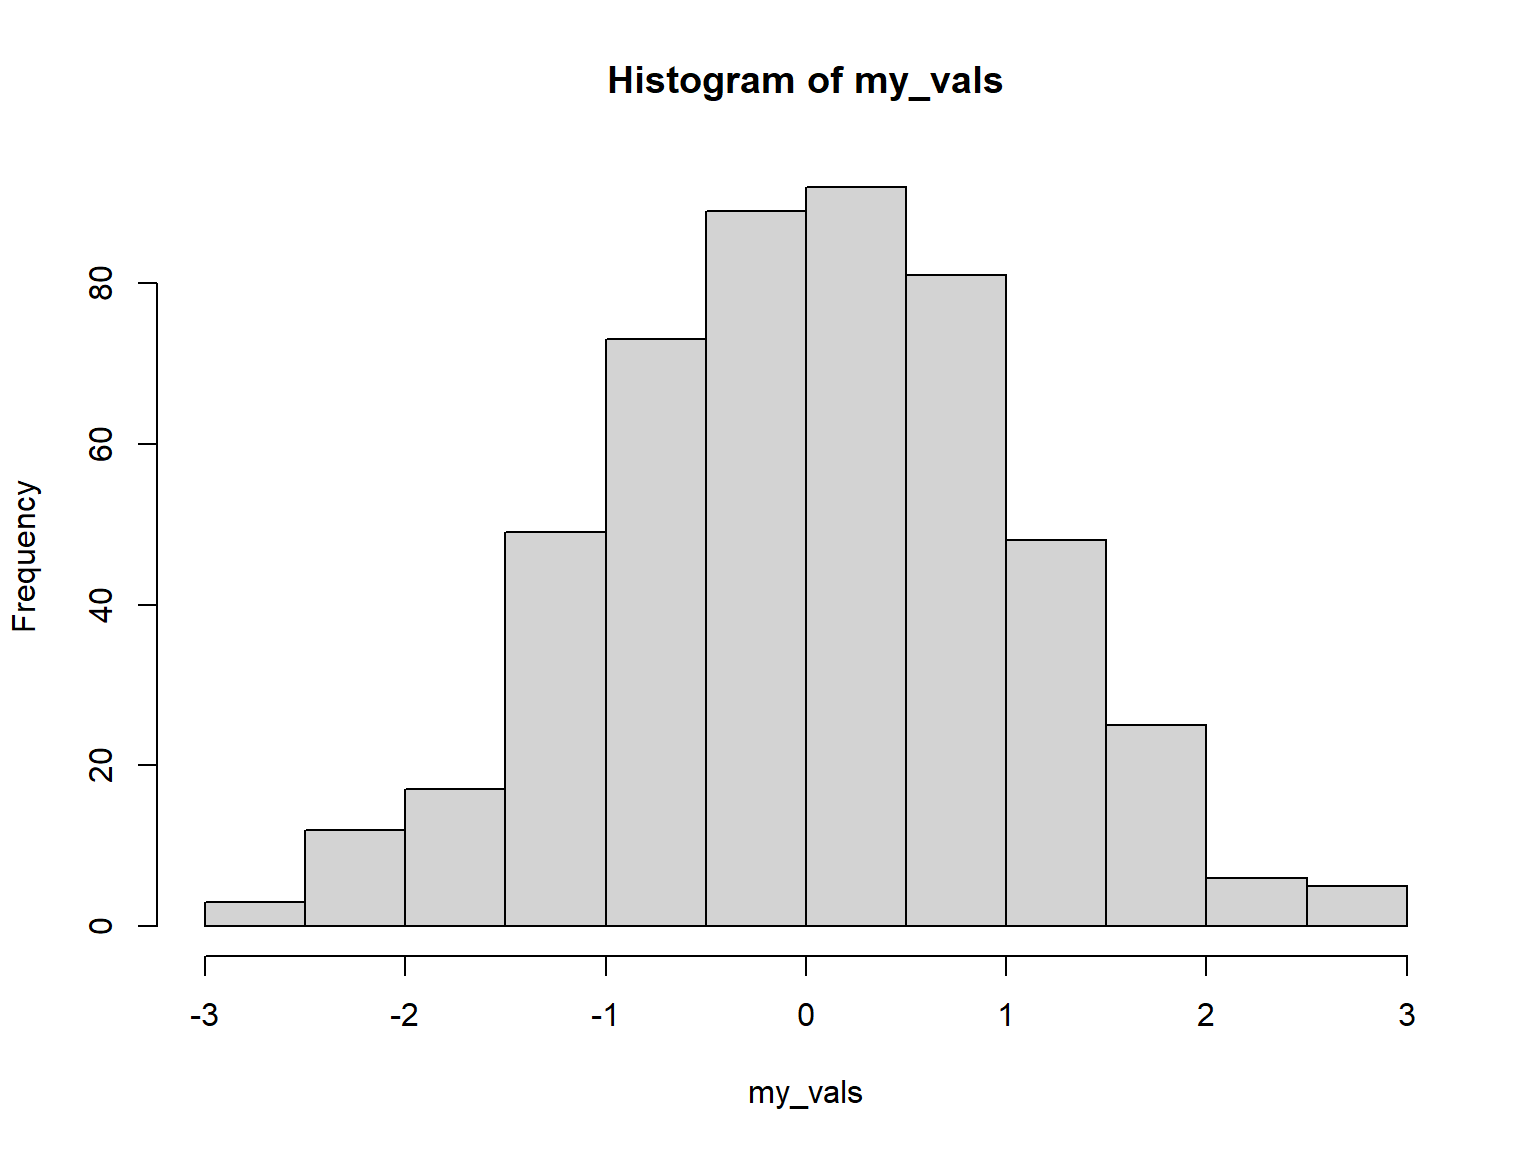
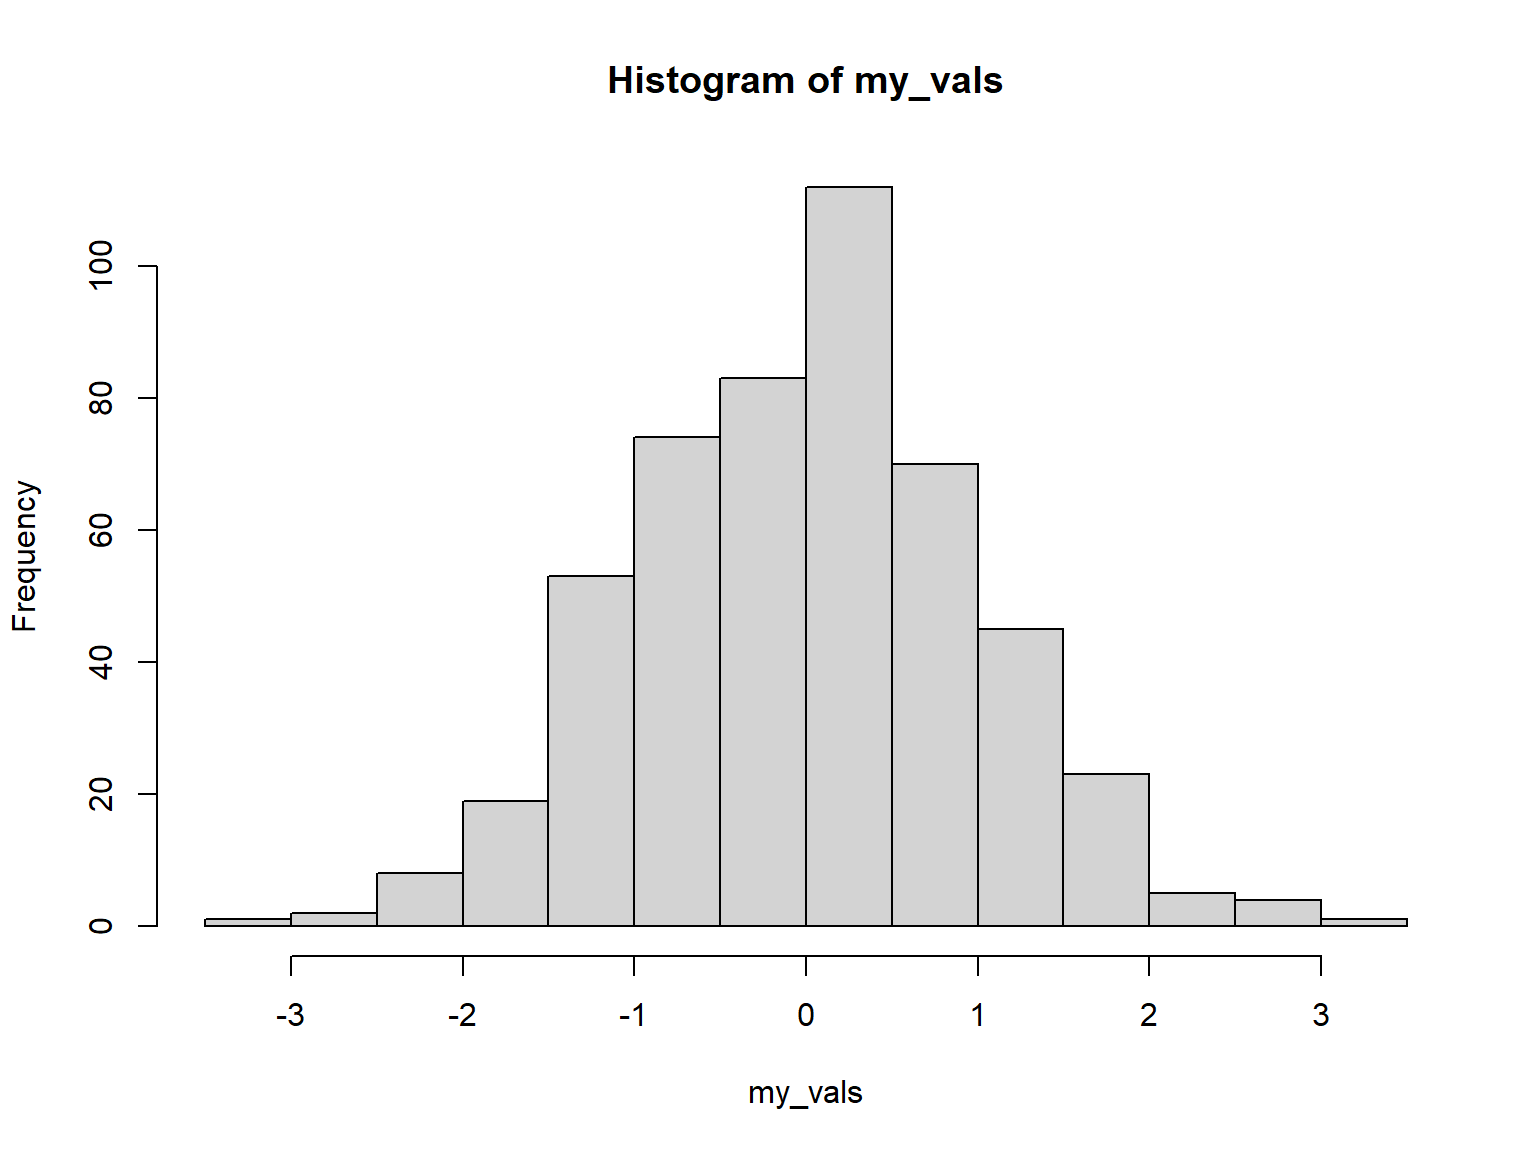
Update slidy2022.css

diff --git a/slides/slides_pt1.html b/slides/slides_pt1.html
@@ -6,7 +6,7 @@
   <meta http-equiv="Content-Type" content="text/html; charset=utf-8" />
   <meta http-equiv="Content-Style-Type" content="text/css" />
   <meta name="generator" content="pandoc" />
-  <meta name="author" content=" October 11, 2022" />
+  <meta name="author" content=" Andy Lyons October 11, 2022" />
   <meta name="copyright" content="<a href='https://ucanr-igis.github.io/IntroR_Oct22/' style='color:#444;'>https://ucanr-igis.github.io/IntroR_Oct22/</a>"/>
   <title>Intro R Getting Started</title>
   <style type="text/css">
@@ -173,8 +173,8 @@ code span.wa { color: #60a0b0; font-weight: bold; font-style: italic; } /* Warni
   <h1 class="title">Intro to R Part 1:</h1>
   <h1 class="subtitle">Getting Started</h1>
   <p class="author">
-<img src='images/r_rstudio_400x120.png' style='width:400px; height:120px; margin-top:0.5em; margin-bottom:2em;'/><br/>October
-11, 2022
+<img src='images/r_rstudio_400x120.png' style='width:400px; height:120px; margin-top:0.5em; margin-bottom:1em;'/><br/>Andy
+Lyons<br/>October 11, 2022
   </p>
   <p class="date"><a href='https://ucanr-igis.github.io/IntroR_Oct22/' style='color:darkgreen; font-size:105%; font-family:monospace;'>https://ucanr-igis.github.io/IntroR_Oct22/
 </a><br/><img src='images/igis-logo_550x58x256.png' style='margin-top:1.5em;'/></p>
@@ -209,8 +209,8 @@ w3c_slidy.mouse_click_enabled = false;
[1 lines of base64/hex data omitted]
 <p class='qtext'>Location</p>
 <div style='margin:0 1em;'>
-<div id="htmlwidget-48e555a387636646c889" style="width:100%;height:400px;" class="leaflet html-widget"></div>
-<script type="application/json" data-for="htmlwidget-48e555a387636646c889">{"x":{"options":{"crs":{"crsClass":"L.CRS.EPSG3857","code":null,"proj4def":null,"projectedBounds":null,"options":{}}},"calls":[{"method":"addTiles","args":["https://{s}.tile.openstreetmap.org/{z}/{x}/{y}.png",null,null,{"minZoom":0,"maxZoom":18,"tileSize":256,"subdomains":"abc","errorTileUrl":"","tms":false,"noWrap":false,"zoomOffset":0,"zoomReverse":false,"opacity":1,"zIndex":1,"detectRetina":false,"attribution":"&copy; <a href=\"https://openstreetmap.org\">OpenStreetMap<\/a> contributors, <a href=\"https://creativecommons.org/licenses/by-sa/2.0/\">CC-BY-SA<\/a>"}]},{"method":"addCircleMarkers","args":[[33.6845673,35.8577443,35.8577443,22.5645175,-15.7666707,37.8715226,37.8715226,37.8715226,37.8715226,37.8043514,33.8491816,36.2077288,37.8715226,-27.4704528,37.8715226,34.4208305,37.8715226,38.5449065,20.8074834,38.5449065,33.9806005,38.5449065,41.8781136,38.2975381,36.6116174,38.5449065,33.9806005,38.5804609,38.5449065,37.7749295,38.5449065,38.5449065,34.134728,40.7309778,38.5449065,34.2804923,37.8043514,37.0849464,37.33874,38.8965654,38.5449065,38.5449065,37.8043514,37.33874,38.5449065,38.5449065,38.5449065,42.4439614,37.8043514,37.8043514,38.6785157,33.9806005,33.9806005,42.4439614,38.5449065,36.7377981,33.6845673,42.4439614,35.3732921,38.5449065,37.6392595,36.7377981,38.5449065,38.5449065,33.9806005,38.1960298,38.5449065,38.5449065,38.5449065,38.5449065,33.9806005,33.9806005,34.0522342,36.6116174,38.5449065,33.9806005,40.8020712,38.6785157,38.5449065,36.7377981,38.6785157,33.9806005,42.4439614,33.9806005,38.5449065,39.1501709,36.6116174,37.8043514,38.5449065],[-117.8265049,-0.3096606,-0.3096606,72.928871,35.0167866,-122.273042,-122.273042,-122.273042,-122.273042,-122.2711639,-118.3884078,-119.3473379,-122.273042,153.0260341,-122.273042,-119.6981901,-122.273042,-121.7405167,-105.2480864,-121.7405167,-117.3754942,-121.7405167,-87.6297982,-122.286865,-119.5270734,-121.7405167,-117.3754942,-121.530234,-121.7405167,-122.4194155,-121.7405167,-121.7405167,-116.3130661,-122.9419708,-121.7405167,-119.2945199,-122.2711639,-121.6102216,-121.8852525,-121.0768901,-121.7405167,-121.7405167,-122.2711639,-121.8852525,-121.7405167,-121.7405167,-121.7405167,-76.5018807,-122.2711639,-122.2711639,-121.7732971,-117.3754942,-117.3754942,-76.5018807,-121.7405167,-119.7871247,-117.8265049,-76.5018807,-119.0187125,-121.7405167,-120.9970014,-119.7871247,-121.7405167,-121.7405167,-117.3754942,-120.6804872,-121.7405167,-121.7405167,-121.7405167,-121.7405167,-117.3754942,-117.3754942,-118.2436849,-119.5270734,-121.7405167,-117.3754942,-124.1636729,-121.7732971,-121.7405167,-119.7871247,-121.7732971,-117.3754942,-76.5018807,-117.3754942,-121.7405167,-123.2077831,-119.5270734,-122.2711639,-121.7405167],10,null,null,{"interactive":true,"className":"","stroke":false,"color":"#03F","weight":5,"opacity":0.5,"fill":true,"fillColor":"#03F","fillOpacity":0.5},1,null,null,null,null,{"interactive":false,"permanent":false,"direction":"auto","opacity":1,"offset":[0,0],"textsize":"10px","textOnly":false,"className":"","sticky":true},null]}],"limits":{"lat":[-27.4704528,42.4439614],"lng":[-124.1636729,153.0260341]}},"evals":[],"jsHooks":[]}</script>
+<div id="htmlwidget-7fc40dea0d0960778a49" style="width:100%;height:400px;" class="leaflet html-widget"></div>
+<script type="application/json" data-for="htmlwidget-7fc40dea0d0960778a49">{"x":{"options":{"crs":{"crsClass":"L.CRS.EPSG3857","code":null,"proj4def":null,"projectedBounds":null,"options":{}}},"calls":[{"method":"addTiles","args":["https://{s}.tile.openstreetmap.org/{z}/{x}/{y}.png",null,null,{"minZoom":0,"maxZoom":18,"tileSize":256,"subdomains":"abc","errorTileUrl":"","tms":false,"noWrap":false,"zoomOffset":0,"zoomReverse":false,"opacity":1,"zIndex":1,"detectRetina":false,"attribution":"&copy; <a href=\"https://openstreetmap.org\">OpenStreetMap<\/a> contributors, <a href=\"https://creativecommons.org/licenses/by-sa/2.0/\">CC-BY-SA<\/a>"}]},{"method":"addCircleMarkers","args":[[33.6845673,35.8577443,35.8577443,22.5645175,-15.7666707,37.8715226,37.8715226,37.8715226,37.8715226,37.8043514,33.8491816,36.2077288,37.8715226,-27.4704528,37.8715226,34.4208305,37.8715226,38.5449065,20.8074834,38.5449065,33.9806005,38.5449065,41.8781136,38.2975381,36.6116174,38.5449065,33.9806005,38.5804609,38.5449065,37.7749295,38.5449065,38.5449065,34.134728,40.7309778,38.5449065,34.2804923,37.8043514,37.0849464,37.33874,38.8965654,38.5449065,38.5449065,37.8043514,37.33874,38.5449065,38.5449065,38.5449065,42.4439614,37.8043514,37.8043514,38.6785157,33.9806005,33.9806005,42.4439614,38.5449065,36.7377981,33.6845673,42.4439614,35.3732921,38.5449065,37.6392595,36.7377981,38.5449065,38.5449065,33.9806005,38.1960298,38.5449065,38.5449065,38.5449065,38.5449065,33.9806005,33.9806005,34.0522342,36.6116174,38.5449065,33.9806005,40.8020712,38.6785157,38.5449065,36.7377981,38.6785157,33.9806005,42.4439614,33.9806005,38.5449065,39.1501709,36.6116174,37.8043514,38.5449065],[-117.8265049,-0.3096606,-0.3096606,72.928871,35.0167866,-122.273042,-122.273042,-122.273042,-122.273042,-122.2711639,-118.3884078,-119.3473379,-122.273042,153.0260341,-122.273042,-119.6981901,-122.273042,-121.7405167,-105.2480864,-121.7405167,-117.3754942,-121.7405167,-87.6297982,-122.286865,-119.5270734,-121.7405167,-117.3754942,-121.530234,-121.7405167,-122.4194155,-121.7405167,-121.7405167,-116.3130661,-122.9419708,-121.7405167,-119.2945199,-122.2711639,-121.6102216,-121.8852525,-121.0768901,-121.7405167,-121.7405167,-122.2711639,-121.8852525,-121.7405167,-121.7405167,-121.7405167,-76.5018807,-122.2711639,-122.2711639,-121.7732971,-117.3754942,-117.3754942,-76.5018807,-121.7405167,-119.7871247,-117.8265049,-76.5018807,-119.0187125,-121.7405167,-120.9970014,-119.7871247,-121.7405167,-121.7405167,-117.3754942,-120.6804872,-121.7405167,-121.7405167,-121.7405167,-121.7405167,-117.3754942,-117.3754942,-118.2436849,-119.5270734,-121.7405167,-117.3754942,-124.1636729,-121.7732971,-121.7405167,-119.7871247,-121.7732971,-117.3754942,-76.5018807,-117.3754942,-121.7405167,-123.2077831,-119.5270734,-122.2711639,-121.7405167],10,null,null,{"interactive":true,"className":"","stroke":false,"color":"#03F","weight":5,"opacity":0.5,"fill":true,"fillColor":"#03F","fillOpacity":0.5},1,null,null,null,null,{"interactive":false,"permanent":false,"direction":"auto","opacity":1,"offset":[0,0],"textsize":"10px","textOnly":false,"className":"","sticky":true},null]}],"limits":{"lat":[-27.4704528,42.4439614],"lng":[-124.1636729,153.0260341]}},"evals":[],"jsHooks":[]}</script>
 </div>
 </div>
 </div>
@@ -602,17 +602,17 @@ style="margin-left:2em;" /></p>
 <p>Random number functions:</p>
 <div class="indented2 indented2r">
 <div class="sourceCode" id="cb17"><pre class="sourceCode r"><code class="sourceCode r"><span id="cb17-1"><a href="#cb17-1" aria-hidden="true" tabindex="-1"></a><span class="fu">runif</span>(<span class="dv">20</span>)</span></code></pre></div>
-<pre><code>##  [1] 0.77361887 0.99344788 0.78542845 0.01849517 0.85194183 0.77645989
-##  [7] 0.10767889 0.89154757 0.68751524 0.36971976 0.52815739 0.44368733
-## [13] 0.67018789 0.33448925 0.49558846 0.12440902 0.64071565 0.58420770
-## [19] 0.14699734 0.53381108</code></pre>
+<pre><code>##  [1] 0.18482891 0.55225916 0.71526879 0.21462238 0.13909333 0.45247129
+##  [7] 0.64249572 0.93200395 0.97865094 0.59414003 0.04923433 0.96747771
+## [13] 0.82038187 0.82646415 0.05299592 0.47939691 0.42103602 0.57526074
+## [19] 0.52193619 0.09365101</code></pre>
 <div class="sourceCode" id="cb19"><pre class="sourceCode r"><code class="sourceCode r"><span id="cb19-1"><a href="#cb19-1" aria-hidden="true" tabindex="-1"></a><span class="fu">rnorm</span>(<span class="dv">20</span>)</span></code></pre></div>
-<pre><code>##  [1]  1.53854218 -0.47678874  2.03520678 -2.04216603  0.55398571  1.14063442
-##  [7] -0.85606976  0.37502999 -1.92493548 -0.30940187  0.19286370  1.15947052
-## [13]  0.62324137 -0.07384462  0.48379816  0.21791656  0.21622056 -0.22412263
-## [19] -1.44952705 -0.29041608</code></pre>
+<pre><code>##  [1]  0.40772806  0.42322883 -0.44277528 -0.04002681 -0.72179119 -0.68023389
+##  [7] -0.78777743 -1.41022563  1.18357875  0.38919696  2.20414027  0.32948335
+## [13] -0.70118404 -1.55885111 -0.65531916 -0.59604136 -0.13143566 -1.31204842
+## [19] -0.63525483  0.76753102</code></pre>
 <div class="sourceCode" id="cb21"><pre class="sourceCode r"><code class="sourceCode r"><span id="cb21-1"><a href="#cb21-1" aria-hidden="true" tabindex="-1"></a><span class="fu">sample</span>(month.abb, <span class="dv">3</span>)</span></code></pre></div>
-<pre><code>## [1] &quot;Feb&quot; &quot;Dec&quot; &quot;Aug&quot;</code></pre>
+<pre><code>## [1] &quot;Jul&quot; &quot;Apr&quot; &quot;Oct&quot;</code></pre>
 </div>
 </div>
 <div id="how-vectors-behave" class="slide section level1">
@@ -658,21 +658,21 @@ style="margin-left:2em;" /></p>
 <div class="indented2 indented2r">
 <div class="sourceCode" id="cb35"><pre class="sourceCode r"><code class="sourceCode r"><span id="cb35-1"><a href="#cb35-1" aria-hidden="true" tabindex="-1"></a>x <span class="ot">=</span> <span class="fu">runif</span>(<span class="dv">20</span>)</span>
 <span id="cb35-2"><a href="#cb35-2" aria-hidden="true" tabindex="-1"></a>x</span></code></pre></div>
-<pre><code>##  [1] 0.03827009 0.65527338 0.61036397 0.88158959 0.90166102 0.48318320
-##  [7] 0.54991789 0.73121592 0.95278564 0.62374381 0.71264049 0.93813560
-## [13] 0.34337506 0.96122124 0.97577629 0.94963641 0.56996159 0.52466508
-## [19] 0.15190171 0.91626105</code></pre>
+<pre><code>##  [1] 0.92825123 0.25865012 0.63808831 0.01155916 0.56369928 0.28754014
+##  [7] 0.16278738 0.86374855 0.09121325 0.64696112 0.43537890 0.48155958
+## [13] 0.10240161 0.95638333 0.78196974 0.92077080 0.92876023 0.40745174
+## [19] 0.38037274 0.15251324</code></pre>
 </div>
 <p><br />
 </p>
 <p>Most descriptive stats functions are aggregate:</p>
 <div class="indented2 indented2r">
 <div class="sourceCode" id="cb37"><pre class="sourceCode r"><code class="sourceCode r"><span id="cb37-1"><a href="#cb37-1" aria-hidden="true" tabindex="-1"></a><span class="fu">mean</span>(x)</span></code></pre></div>
-<pre><code>## [1] 0.673579</code></pre>
+<pre><code>## [1] 0.500003</code></pre>
 <div class="sourceCode" id="cb39"><pre class="sourceCode r"><code class="sourceCode r"><span id="cb39-1"><a href="#cb39-1" aria-hidden="true" tabindex="-1"></a><span class="fu">median</span>(x)</span></code></pre></div>
-<pre><code>## [1] 0.6839569</code></pre>
+<pre><code>## [1] 0.4584692</code></pre>
 <div class="sourceCode" id="cb41"><pre class="sourceCode r"><code class="sourceCode r"><span id="cb41-1"><a href="#cb41-1" aria-hidden="true" tabindex="-1"></a><span class="fu">sd</span>(x)</span></code></pre></div>
-<pre><code>## [1] 0.2746592</code></pre>
+<pre><code>## [1] 0.3193841</code></pre>
 </div>
 <p><br />
 </p>

diff --git a/slides/slides_pt2.html b/slides/slides_pt2.html
@@ -6,7 +6,7 @@
   <meta http-equiv="Content-Type" content="text/html; charset=utf-8" />
   <meta http-equiv="Content-Style-Type" content="text/css" />
   <meta name="generator" content="pandoc" />
-  <meta name="author" content=" October 12, 2022" />
+  <meta name="author" content=" Andy Lyons October 12, 2022" />
   <meta name="copyright" content="<a href='https://ucanr-igis.github.io/IntroR_Oct22/' style='color:#444;'>https://ucanr-igis.github.io/IntroR_Oct22/</a>"/>
   <title>Intro R Functions Import Data</title>
   <style type="text/css">
@@ -158,8 +158,8 @@ code span.wa { color: #60a0b0; font-weight: bold; font-style: italic; } /* Warni
   <h1 class="subtitle">Packages, Functions, Data Frames,<br/> and
 Importing Data</h1>
   <p class="author">
-<img src='images/r_rstudio_400x120.png' style='width:400px; height:120px; margin-top:0.5em; margin-bottom:2em;'/><br/>October
-12, 2022
+<img src='images/r_rstudio_400x120.png' style='width:400px; height:120px; margin-top:0.5em; margin-bottom:1em;'/><br/>Andy
+Lyons<br/>October 12, 2022
   </p>
   <p class="date"><a href='https://ucanr-igis.github.io/IntroR_Oct22/' style='color:darkgreen; font-size:105%; font-family:monospace;'>https://ucanr-igis.github.io/IntroR_Oct22/
 </a><br/><img src='images/igis-logo_550x58x256.png' style='margin-top:1.5em;'/></p>
@@ -506,7 +506,7 @@ them <em>starting with the 2nd argument</em> (or use named
 arguments):</p>
 <div class="indented2 indented2r">
 <div class="sourceCode" id="cb8"><pre class="sourceCode r"><code class="sourceCode r"><span id="cb8-1"><a href="#cb8-1" aria-hidden="true" tabindex="-1"></a><span class="fu">runif</span>(<span class="dv">5</span>) <span class="sc">%&gt;%</span> <span class="fu">round</span>(<span class="dv">2</span>)</span></code></pre></div>
-<pre><code>## [1] 0.94 0.86 0.65 0.91 0.55</code></pre>
+<pre><code>## [1] 0.12 0.68 0.35 0.09 0.95</code></pre>
 </div>
 <p><br />
 </p>

diff --git a/slides/slides_pt3.html b/slides/slides_pt3.html
@@ -6,7 +6,7 @@
   <meta http-equiv="Content-Type" content="text/html; charset=utf-8" />
   <meta http-equiv="Content-Style-Type" content="text/css" />
   <meta name="generator" content="pandoc" />
-  <meta name="author" content=" October 14, 2022" />
+  <meta name="author" content=" Andy Lyons October 14, 2022" />
   <meta name="copyright" content="<a href='https://ucanr-igis.github.io/IntroR_Oct22/' style='color:#444;'>https://ucanr-igis.github.io/IntroR_Oct22/</a>"/>
   <title>Intro R Data Wrangling</title>
   <style type="text/css">
@@ -159,8 +159,8 @@ code span.wa { color: #60a0b0; font-weight: bold; font-style: italic; } /* Warni
   <h1 class="title">Intro to R Part 3:</h1>
   <h1 class="subtitle">Data Wrangling</h1>
   <p class="author">
-<img src='images/r_rstudio_400x120.png' style='width:400px; height:120px; margin-top:0.5em; margin-bottom:2em;'/><br/>October
-14, 2022
+<img src='images/r_rstudio_400x120.png' style='width:400px; height:120px; margin-top:0.5em; margin-bottom:1em;'/><br/>Andy
+Lyons<br/>October 14, 2022
   </p>
   <p class="date"><a href='https://ucanr-igis.github.io/IntroR_Oct22/' style='color:darkgreen; font-size:105%; font-family:monospace;'>https://ucanr-igis.github.io/IntroR_Oct22/
 </a><br/><img src='images/igis-logo_550x58x256.png' style='margin-top:2em;'/></p>

diff --git a/slides/slides_pt4.html b/slides/slides_pt4.html
@@ -6,7 +6,7 @@
   <meta http-equiv="Content-Type" content="text/html; charset=utf-8" />
   <meta http-equiv="Content-Style-Type" content="text/css" />
   <meta name="generator" content="pandoc" />
-  <meta name="author" content=" " />
+  <meta name="author" content="" />
   <meta name="copyright" content="<a href='https://ucanr-igis.github.io/IntroR_Oct22/' style='color:#444;'>https://ucanr-igis.github.io/IntroR_Oct22/</a>"/>
   <title>Intro R ggplot</title>
   <style type="text/css">
@@ -157,7 +157,7 @@ code span.wa { color: #60a0b0; font-weight: bold; font-style: italic; } /* Warni
   <h1 class="title">Intro to R Part 4:</h1>
   <h1 class="subtitle">ggplot</h1>
   <p class="author">
-<img src='images/r_rstudio_400x120.png' style='width:400px; height:120px; margin-top:0.5em; margin-bottom:2em;'/><br/><!--- October 14, 2022 --->
+<img src='images/r_rstudio_400x120.png' style='width:400px; height:120px; margin-top:0.5em; margin-bottom:1em;'/><!--- October 14, 2022 --->
   </p>
   <p class="date"><a href='https://ucanr-igis.github.io/IntroR_Oct22/' style='color:darkgreen; font-size:105%; font-family:monospace;'>https://ucanr-igis.github.io/IntroR_Oct22/
 </a><br/><img src='images/igis-logo_550x58x256.png' style='margin-top:2em;'/></p>

diff --git a/slides/slidy2022.css b/slides/slidy2022.css
@@ -1,3 +1,6 @@
+p.author {
+  line-height:150%;
+}
 div.slide.titlepage h1 {
   padding-top:5%;
 }
